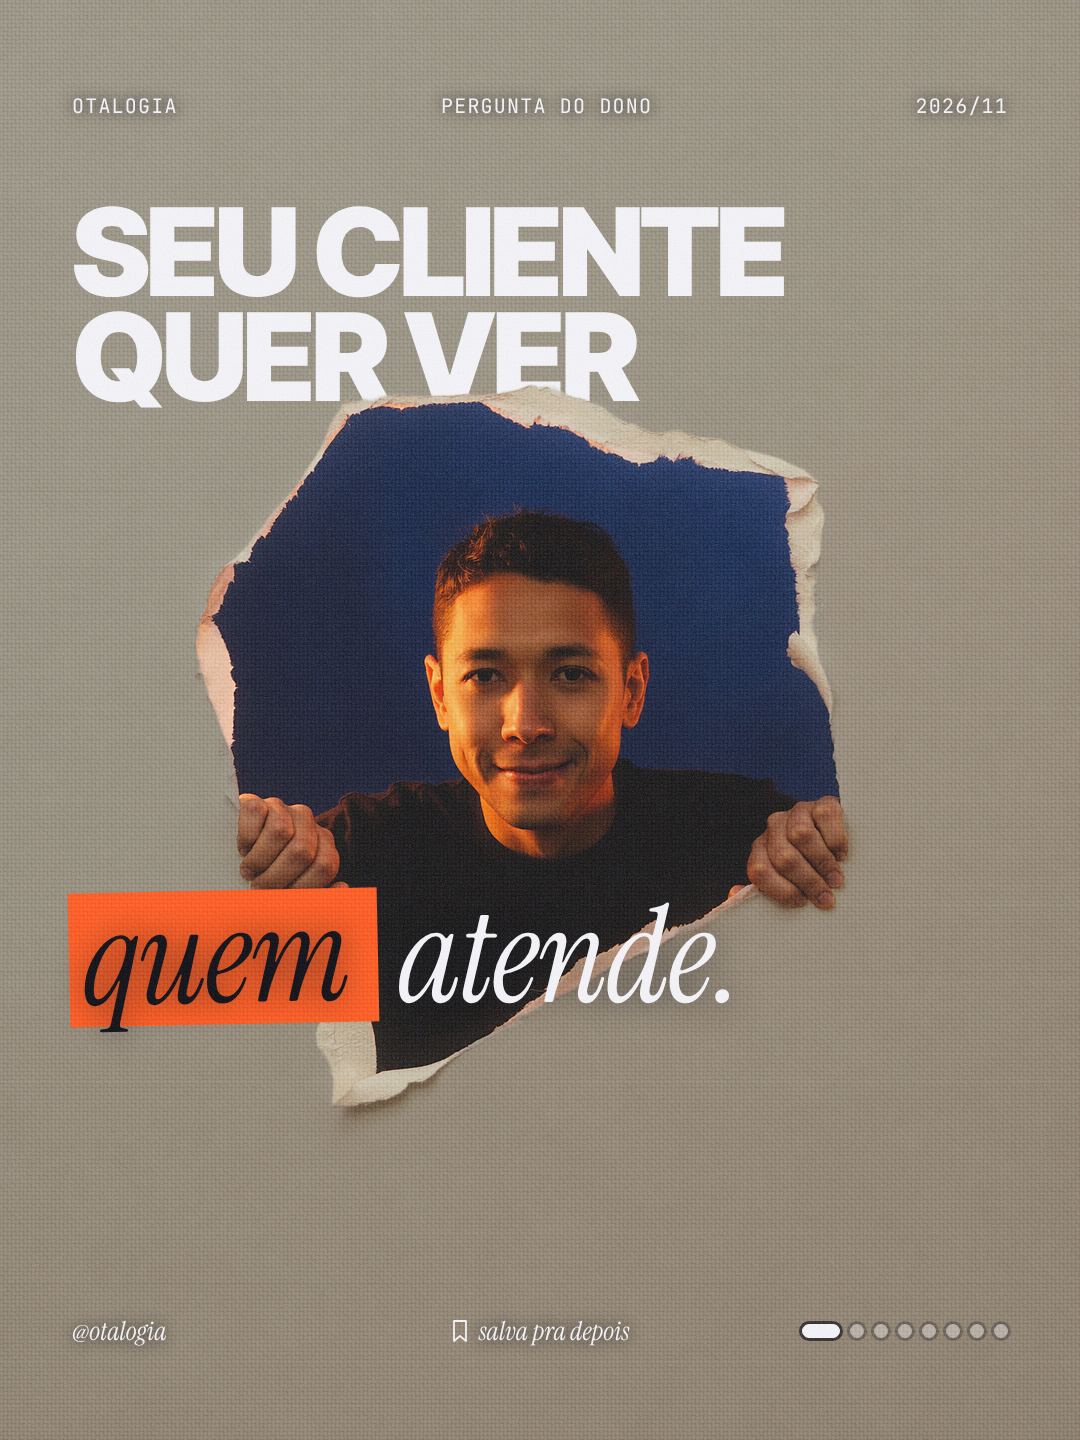
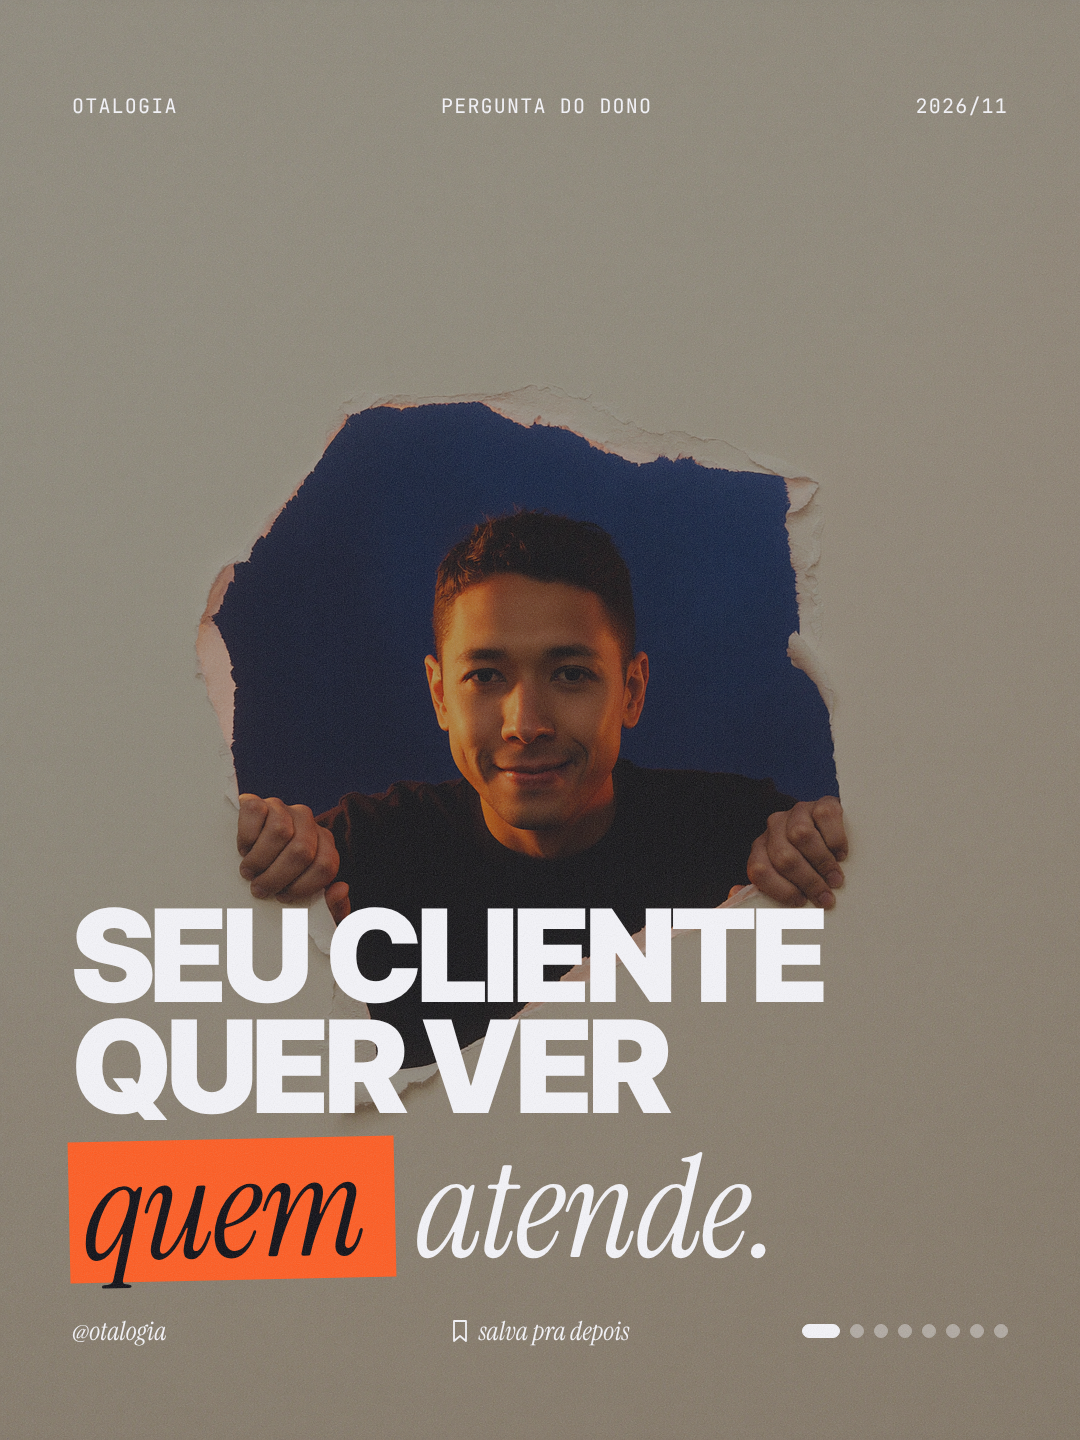
fix(quem-atende): texto da capa fora do rosto no motion
O motion-drive barrou o render: no HyperFrames a emoção vem logo abaixo do título
e caía sobre a cabeça do Luiz. Capa vira T1 com bloco embaixo do rosto e o motion
foi gerado de novo (checar_rostos ok).

Claude-Session: https://claude.ai/code/session_017wxwMSmQuLkQa2zUnnUQwA

diff --git a/carrosseis/2026-11-quem-atende/motion/index.html b/carrosseis/2026-11-quem-atende/motion/index.html
@@ -22,11 +22,10 @@
     <img class="foto" src="img/capa.png" alt="" />
     <img class="bloom" src="img/capa.png" alt="" />
     <div class="brasas" data-layout-allow-overflow></div>
-    <div class="conteudo" style="top: 200px; left: 72px; width: 720px">
+    <div class="conteudo" style="top: 900px; left: 72px; width: 760px">
       <h1 class="display" data-layout-allow-overflow data-layout-allow-occlusion><span class="linha"><span>SEU CLIENTE</span></span><span class="linha"><span>QUER VER</span></span></h1>
       <p class="emocao"><span class="hl">quem</span> atende.</p>
     </div>
-    <img data-layout-allow-occlusion class="recorte" src="img/capa_recorte.png" alt="" />
     <div class="base"><div class="arrasta">arrasta <b></b></div></div>
     <div class="topo"><span>otalogia</span><span>pergunta do dono</span><span>2026/11</span></div>
     <div class="rodape"><span>@otalogia</span><span class="salva">salva pra depois</span><span class="dots"><i class="on"></i><i></i><i></i><i></i><i></i><i></i><i></i><i></i></span></div>
@@ -124,7 +123,7 @@
   const S = 6, m = otaMotion(tl, S);
   m.ajusta();
 
-  m.foto("s1", 0, { z: 1.06, brasas: 40 });
+  m.foto("s1", 0, { z: 1.14, brasas: 40 });
   m.chrome("s1", 0);
   m.linhas("s1", 0.45);
   m.marcas("#s1 .display .hl", 1.29);

diff --git a/roteiro-carrosseis.md b/roteiro-carrosseis.md
@@ -49,7 +49,7 @@ Atualizado em 2026-10-09.
 | 29 | bio-responde | Pergunta do Dono | Sua bio responde o que o cliente *pergunta*? | T1b (busto segurando balão de fala em branco, fundo marinho com luz laranja; sem recorte, fica como T1; CTA: apontando pra lente, busto, fundo marinho) | Identificação | BIO | 29 | rascunho |
 | 30 | resposta-pronta | Planta | A mesma resposta *salva*. | Referência: T1 (figura carimbando faixa de papel infinita num salar ao pôr do sol) + 2 T5 (WhatsApp Business, Zenvia) | Autoridade | PRONTA | 30 | rascunho |
 | 31 | cliente-nao-sabe | Pergunta do Dono | Seu cliente não sabe o que *perguntar*. | T1 (placa de pedra com setas em branco num salar ao pôr do sol, figura de costas na base) | Descoberta | MENU | 31 | rascunho |
-| 32 | quem-atende | Pergunta do Dono | Seu cliente quer ver *quem* atende. | T1b (atravessando buraco rasgado em parede de papel creme, fundo marinho; slide 2 com o Luiz escondendo o rosto atrás de celular em branco; CTA: acenando pra câmera, peito pra cima, estúdio marinho) | Identificação | ROSTO | 32 | rascunho |
+| 32 | quem-atende | Pergunta do Dono | Seu cliente quer ver *quem* atende. | T1b (sem recorte, fica como T1; atravessando buraco rasgado em parede de papel creme, fundo marinho; slide 2 com o Luiz escondendo o rosto atrás de celular em branco; CTA: acenando pra câmera, peito pra cima, estúdio marinho) | Identificação | ROSTO | 32 | rascunho |
 
 Poses de T1b já usadas: atravessando buraco rasgado em parede de papel, busto (#32); celular em branco na frente do rosto, busto em creme (slide 2 #32); acenando pra câmera, peito pra cima, marinho (CTA #32); segurando balão de fala em branco, busto (#29); apontando pra lente, busto em marinho (CTA #29); segurando moldura vazia, busto (#26); espiando atrás da cortina de palco, busto (CTA #26); leque de cartões em branco, estúdio marinho (#23); foto instantânea em branco ao lado do rosto, busto (CTA #23); olho de peixe com lupa em branco no olho (#21); mão em concha atrás da orelha, busto (CTA #21); olho de peixe de cima com celulares (#2); mão estendida pra câmera, agachado (CTA #2); olho de peixe com caneca laranja (#3); cadeira flutuando sobre névoa (CTA #3); spray desenhando setas (#6); sentado na beira da laje, E6 (CTA #6); câmera antiga de frente (#8); sentado em laje flutuante com câmera (CTA #8); telefone de fio, E11 (#10); banqueta em estúdio marinho, E7 (CTA #10); miniatura sobre agenda gigante, E3 (#17); segurando folha em branco, busto (CTA #17); lendo jornal em branco com mala, E8 (#15); atrás do quadro-negro em branco com giz, E12 (CTA #15); carimbo em branco pra lente, contra-plongée em creme (#12); varal com cartelas de cor contra céu azul, E9 (CTA #12). Banco de estéticas: `design-system/esteticas-editoriais.md`.
 
